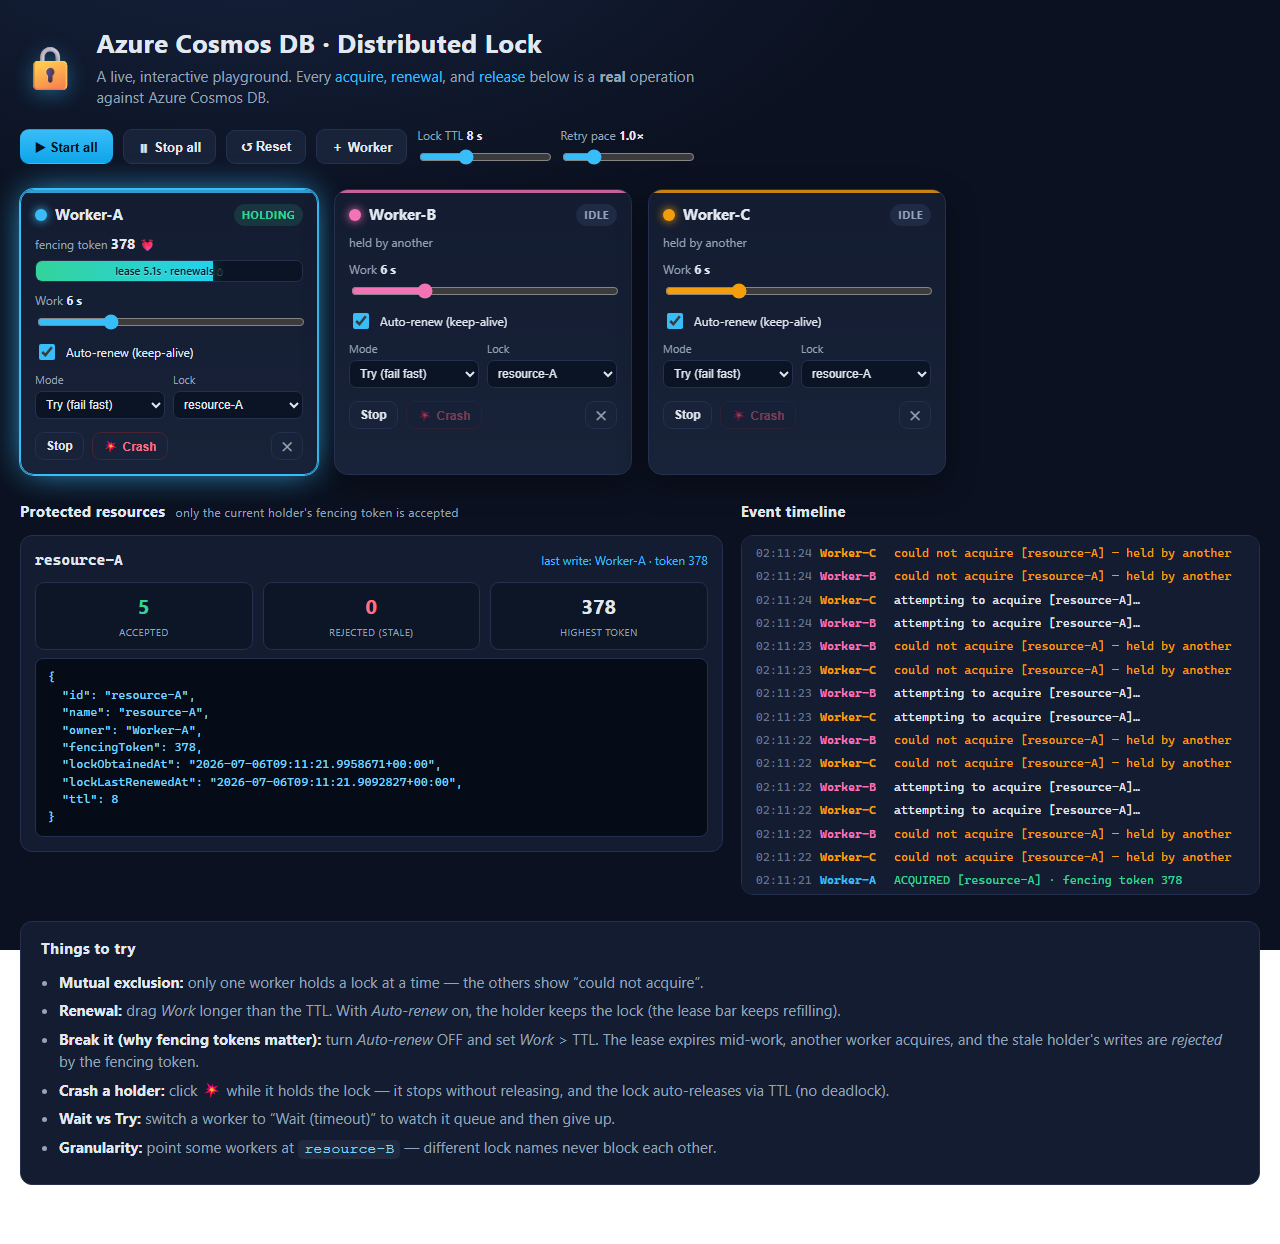
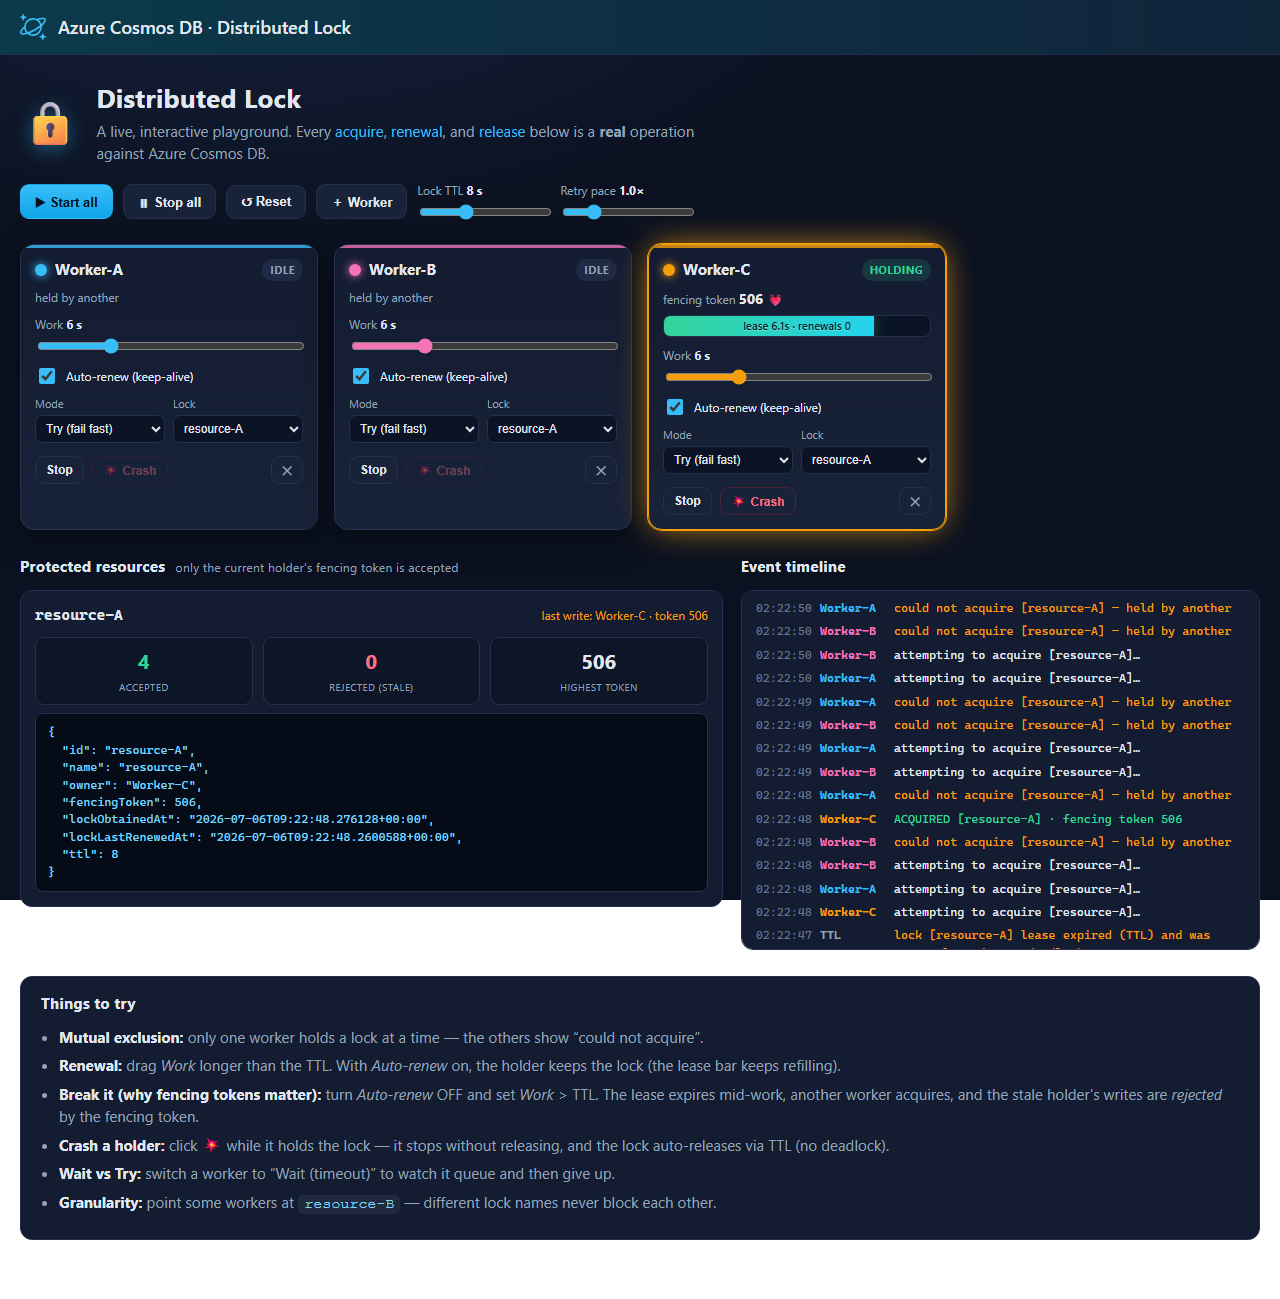
Unify the app header across all five web samples and make schema-versioning interactive
- Add the shared Azure Cosmos DB "planet" logo nav bar to the distributed-lock
  and loop-safe-change-feed web apps, so all five sample front ends now share the
  same header. (distributed-lock keeps its lock hero below the nav.)
- Make schema-versioning interactive: add "Add original (v1) cart", "Add
  versioned (v2) cart", and "Clear all" controls so you can create carts of both
  schema shapes from the browser and watch them coexist, instead of only viewing
  data made by the separate data-generator.
- Refresh the distributed-lock and schema-versioning README screenshots.

Verified against the Cosmos DB emulator via Playwright: navs render on all apps
and the schema-versioning add/clear actions work (cart count updates live).

Changed region(s): [[0.0, 0.0, 1.0, 0.9775]]

diff --git a/schema-versioning/source/website/wwwroot/css/site.css b/schema-versioning/source/website/wwwroot/css/site.css
@@ -101,3 +101,14 @@ a { color: var(--accent); }
 .special-note { color: var(--amber); font-size: 13px; }
 
 .empty { color: var(--muted); font-style: italic; }
+
+/* Interactive toolbar */
+.panel { background: var(--panel); border: 1px solid var(--border); border-radius: 14px; padding: 16px 20px; margin-bottom: 22px; }
+.toolbar-panel { display: flex; align-items: center; gap: 14px; flex-wrap: wrap; }
+.toolbar-label { color: var(--muted); font-size: 14px; }
+.toolbar-panel form { display: flex; gap: 10px; flex-wrap: wrap; align-items: center; margin: 0; }
+.btn { background: var(--accent); color: #06283a; border: 1px solid var(--accent); border-radius: 8px; padding: 9px 16px; cursor: pointer; font-size: 14px; font-weight: 600; }
+.btn:hover { filter: brightness(1.08); }
+.btn.ghost { background: var(--panel-2); color: var(--text); border-color: var(--border); font-weight: 500; }
+.btn.ghost:hover { border-color: var(--accent); filter: none; }
+.btn.danger:hover { border-color: #f87171; color: #fca5a5; }

diff --git a/distributed-lock/source/Website/wwwroot/css/site.css b/distributed-lock/source/Website/wwwroot/css/site.css
@@ -27,6 +27,12 @@ html, body {
 
 .app { max-width: 1280px; margin: 0 auto; padding: 24px 20px 60px; }
 
+/* ---------- top nav ---------- */
+.app-nav { background: linear-gradient(90deg, #0b3a4a, #10243a); border-bottom: 1px solid var(--border); }
+.app-nav .nav-inner { max-width: 1280px; margin: 0 auto; padding: 14px 20px; display: flex; align-items: center; gap: 12px; }
+.app-nav .brand { font-size: 18px; font-weight: 600; color: var(--text); }
+.app-nav svg { color: var(--primary); }
+
 /* ---------- hero ---------- */
 .hero {
     display: flex; flex-wrap: wrap; gap: 18px; align-items: center; justify-content: space-between;

diff --git a/loop-safe-change-feed/source/Website/wwwroot/css/site.css b/loop-safe-change-feed/source/Website/wwwroot/css/site.css
@@ -22,6 +22,12 @@ body {
 
 .page { max-width: 1200px; margin: 0 auto; padding: 24px; }
 
+/* Top nav */
+.app-nav { background: linear-gradient(90deg, #0b3a4a, #10243a); border-bottom: 1px solid var(--border); }
+.app-nav .nav-inner { max-width: 1200px; margin: 0 auto; padding: 14px 24px; display: flex; align-items: center; gap: 12px; }
+.app-nav .brand { font-size: 18px; font-weight: 600; color: var(--text); }
+.app-nav svg { color: var(--accent); }
+
 header h1 { margin: 0 0 6px; font-size: 26px; }
 .tagline { margin: 0 0 16px; color: var(--muted); max-width: 900px; line-height: 1.5; }
 .tagline strong { color: var(--text); }

diff --git a/schema-versioning/source/website/Services/CartService.cs b/schema-versioning/source/website/Services/CartService.cs
@@ -33,5 +33,67 @@ namespace Versioning.Services
             }
             return carts;
         }
+
+        private static readonly string[] Products =
+        {
+            "Wireless Mouse", "Mechanical Keyboard", "USB-C Cable", "Laptop Stand", "Monitor Arm",
+            "Standing Desk", "Office Chair", "Notebook", "Fountain Pen", "Desk Lamp", "Webcam",
+            "Headset", "Docking Station", "Whiteboard", "Coffee Mug"
+        };
+
+        private static readonly string[] SpecialNotes =
+        {
+            "Engrave with customer name", "Custom color: navy", "Gift wrap and include a note",
+            "Firm foam, extra lumbar support", "Left-handed configuration", "Rush delivery requested"
+        };
+
+        /// <summary>
+        /// Creates a cart. A versioned (v2) cart carries <c>SchemaVersion = 2</c> and may include
+        /// special-order items with notes; an original (v1) cart has no schema version and plain
+        /// items. Both shapes live in the same container &mdash; that's the pattern.
+        /// </summary>
+        public async Task<Cart> AddCartAsync(bool versioned)
+        {
+            Random rng = Random.Shared;
+            Cart cart = new()
+            {
+                Id = Guid.NewGuid().ToString(),
+                SessionId = Guid.NewGuid().ToString(),
+                CustomerId = rng.Next(1000, 9999),
+                SchemaVersion = versioned ? 2 : null,
+                Items = new List<CartItemWithSpecialOrder>()
+            };
+
+            int itemCount = rng.Next(2, 5);
+            for (int i = 0; i < itemCount; i++)
+            {
+                CartItemWithSpecialOrder item = new()
+                {
+                    ProductName = Products[rng.Next(Products.Length)],
+                    Quantity = rng.Next(1, 4)
+                };
+
+                // Only versioned carts can carry special orders (the v2 addition).
+                if (versioned && rng.Next(0, 2) == 0)
+                {
+                    item.IsSpecialOrder = true;
+                    item.SpecialOrderNotes = SpecialNotes[rng.Next(SpecialNotes.Length)];
+                }
+
+                cart.Items.Add(item);
+            }
+
+            await _cosmosDbService.CartsContainer.UpsertItemAsync(cart, new PartitionKey(cart.Id));
+            return cart;
+        }
+
+        /// <summary>Deletes all carts so the demo can be reset from the browser.</summary>
+        public async Task ClearAllAsync()
+        {
+            foreach (Cart cart in await RetrieveAllCartsAsync())
+            {
+                await _cosmosDbService.CartsContainer.DeleteItemAsync<Cart>(cart.Id, new PartitionKey(cart.Id));
+            }
+        }
     }
 }

diff --git a/schema-versioning/source/website/Pages/Index.cshtml.cs b/schema-versioning/source/website/Pages/Index.cshtml.cs
@@ -18,8 +18,25 @@ public class IndexModel : PageModel
         Carts = new List<Cart>();
     }
 
-    public void OnGet()
+    public async Task OnGet()
     {
-        Carts = _cartService.RetrieveAllCartsAsync().Result.ToList();        
+        await LoadAsync();
+    }
+
+    public async Task<IActionResult> OnPostAddAsync(bool versioned)
+    {
+        await _cartService.AddCartAsync(versioned);
+        return RedirectToPage();
+    }
+
+    public async Task<IActionResult> OnPostClearAsync()
+    {
+        await _cartService.ClearAllAsync();
+        return RedirectToPage();
+    }
+
+    private async Task LoadAsync()
+    {
+        Carts = (await _cartService.RetrieveAllCartsAsync()).ToList();
     }
 }